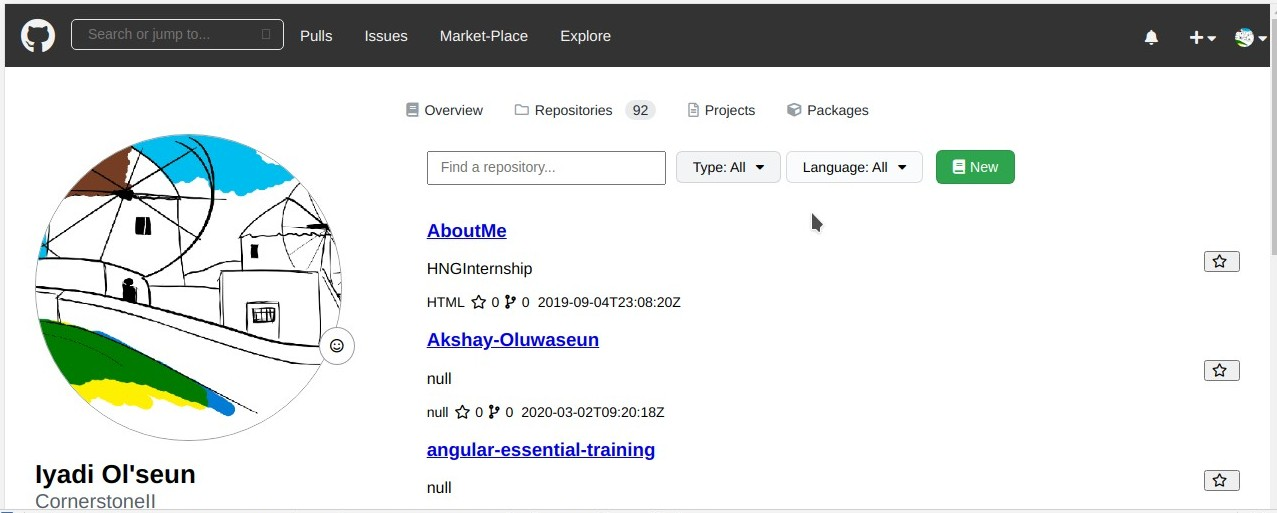
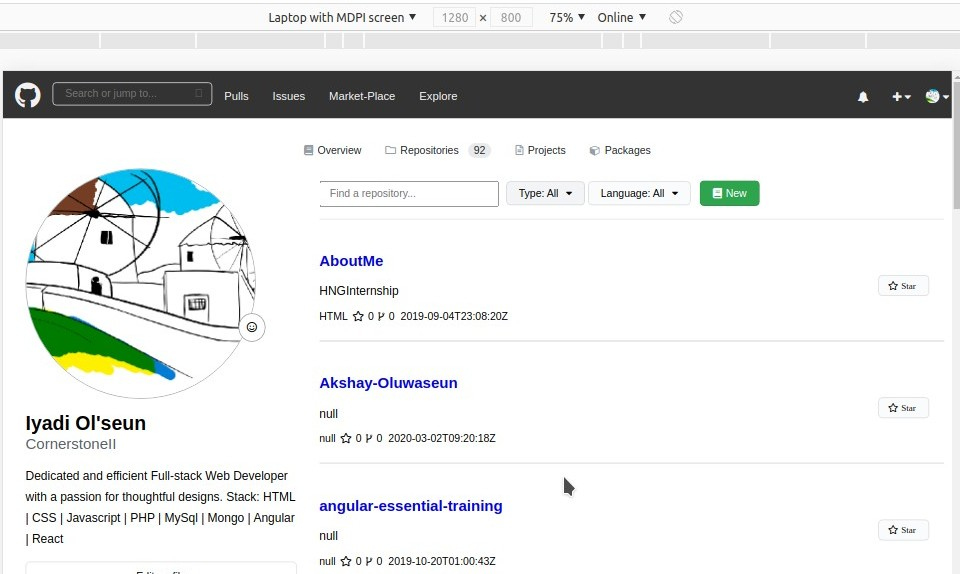
Add border-bottom and border-bottom color to repo-item

diff --git a/css/style.css b/css/style.css
@@ -203,7 +203,11 @@ body {
   display: -moz-box;
   display: -moz-flex;
   -ms-box-orient: horizontal;
-  justify-content: center;
+  justify-content: space-evenly;
+}
+
+.footer-container li {
+  justify-content: space-evenly;
 }
 
 .wrap {
@@ -419,9 +423,18 @@ body {
 
 .repo-item {
   margin-right: 10px;
+  padding-top: 24px;
+  padding-bottom: 24px;
+  border-bottom: 1px solid #e1e4e8;
+  border-top: 1px solid #e1e4e8;
 }
 
-.title h3 a {
+.name h3 {
+  font-weight: 600;
+  font-size: 20px;
+}
+
+.title-name {
   text-decoration: none;
 }
 
@@ -453,6 +466,21 @@ body {
   top: 30%;
   right: 20px;
   top: 50px;
+}
+
+.right-float button {
+  cursor: pointer;
+  padding: 3px 12px;
+  font-size: 12px;
+  line-height: 20px;
+  font-weight: 500;
+  background-color: #fafbfc;
+  border-radius: 6px;
+  border: 1px solid rgba(27, 31, 35, 0.15);
+}
+
+.about-repo-star {
+  margin-left: 4px;
 }
 
 footer div {

diff --git a/index.html b/index.html
@@ -172,9 +172,9 @@
 
               <div class="user-repo-list">
                 <ul class="repofilter">
-                  <li class="repo-item">
+                  <!-- <li class="repo-item">
 
-                    <!-- <div class="about-repo">
+                    <div class="about-repo">
 
                       <div class="about-name">
 
@@ -201,9 +201,9 @@
                       <div class="right-float">
                         <button><i class='far fa-star right-float-btn'></i><span class="about-repo-star">Star</span></button>
                       </div>
-                    </div> -->
+                    </div>
 
-                  </li>
+                  </li> -->
                 </ul>
 
                 <div class="paginate-repo-list">

diff --git a/js/index.js b/js/index.js
@@ -52,10 +52,8 @@ request.onload = function () {
     statusHTML += '<div class="right-float">';
     statusHTML += '<button>';
 
-    statusHTML += '<i class="far fa-star right-float-btn">';
+    statusHTML += '<i class="far fa-star right-float-btn"><span class="about-repo-star">Star</span>';
     statusHTML += '</i>';
-
-    // statusHTML += '<span class="about-repo-star">'+ Star +'</span>';
 
     statusHTML += '</button>';
     statusHTML += '</div>';
